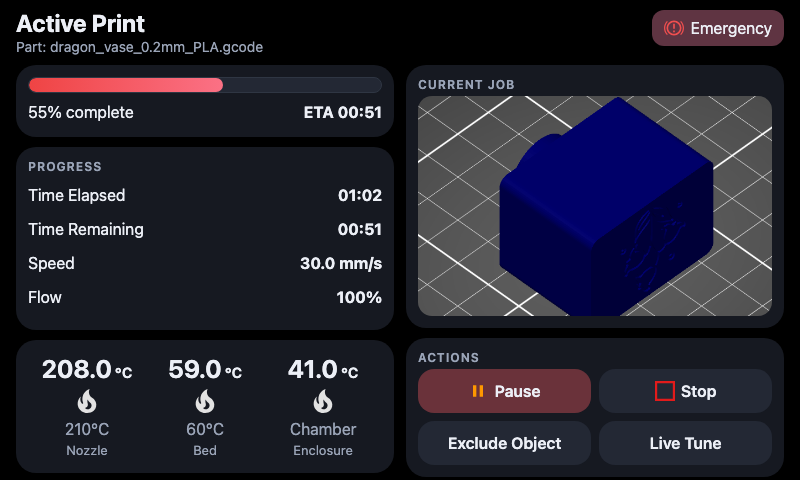
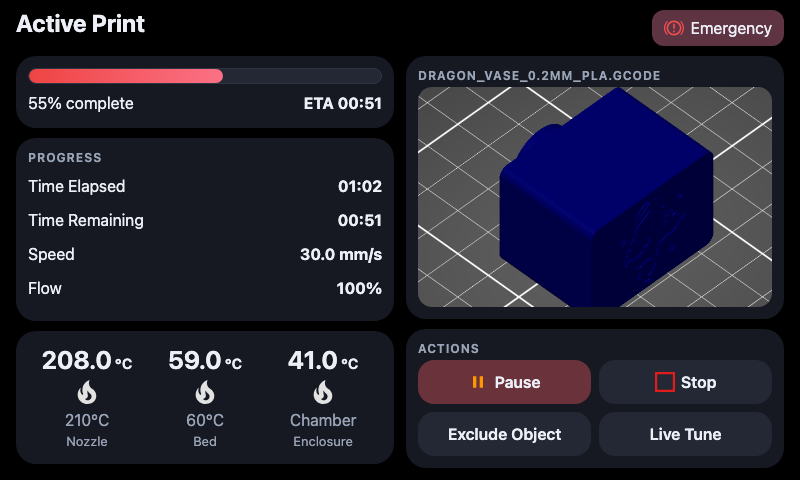
cleaned up print screen

diff --git a/src/screens/PrintScreen.tsx b/src/screens/PrintScreen.tsx
@@ -180,7 +180,7 @@ export function PrintScreen() {
   };
 
   return (
-    <Layout title="Active Print" subtitle={`Part: ${job.filename}`} hideMenuBar={isPrintActive}>
+    <Layout title="Active Print" subtitle=" " hideMenuBar={isPrintActive}>
       <div className="print-columns">
         <div className="print-column print-column-left">
           <section className="card print-time-card">
@@ -226,7 +226,7 @@ export function PrintScreen() {
 
         <div className="print-column print-column-right">
           <section className="card print-thumb-card">
-            <div className="card-label">Current Job</div>
+            <div className="card-label">{job.filename}</div>
             <div className="media-thumb print-media-thumb">
               {thumbnailUrl ? (
                 <img src={thumbnailUrl} alt={`${job.filename} preview`} />
